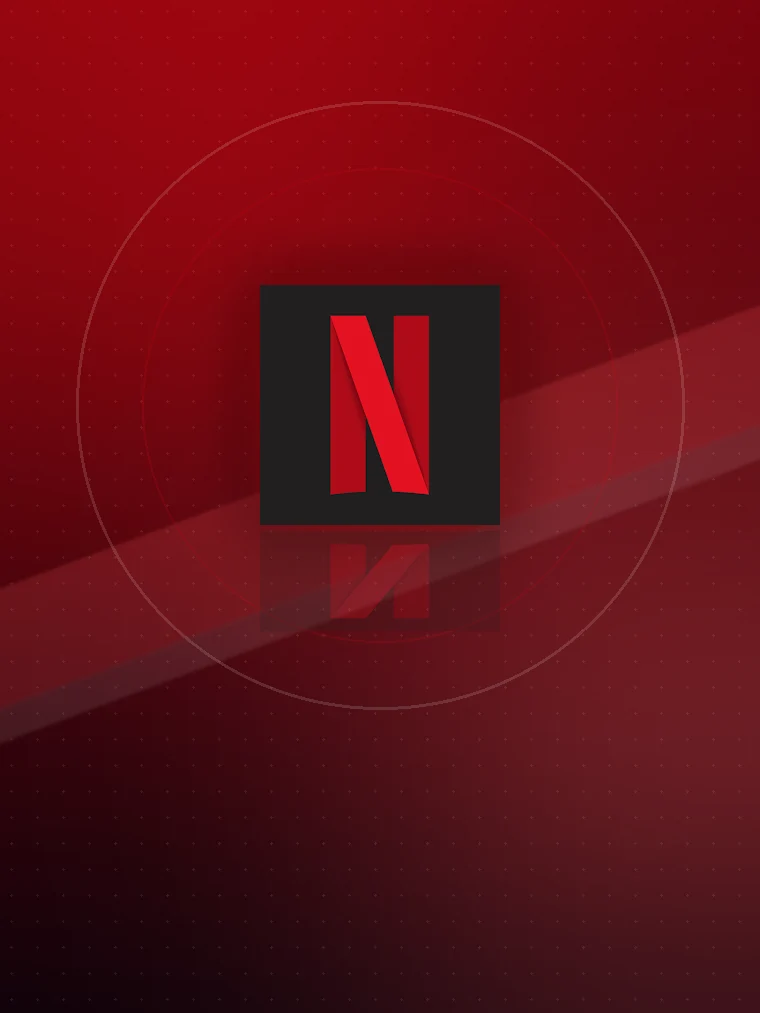
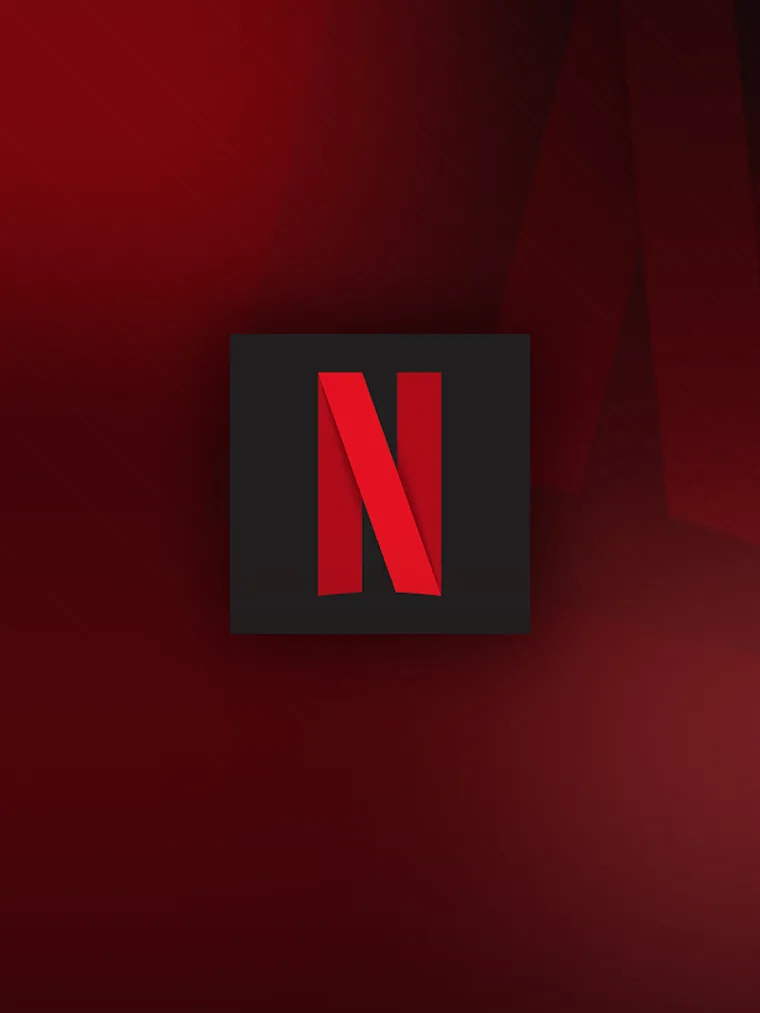
Poster Netflix/Canva/CapCut/Office/VPN dibuat ulang pakai resep poster lama (art7) agar serasi; cache-bust v5

diff --git a/index.html b/index.html
@@ -2913,20 +2913,20 @@
     };
     // Artwork poster: gambar promosi resmi dari halaman toko aplikasi masing-masing.
     const ART = {
-      mlbb: 'public/art9g/mlbb.webp?v=4', ff: 'public/art9g/ff.webp?v=4', pubg: 'public/art9g/pubg.webp?v=4', magic_chess: 'public/art9g/magic_chess.webp?v=4',
-      netflix: 'public/art9/netflix.webp?v=4', canva: 'public/art9/canva.webp?v=4', capcut: 'public/art9/capcut.webp?v=4',
-      spotify: 'public/art9/spotify.webp?v=4', microsoft_office: 'public/art9/microsoft_office.webp?v=4',
-      vpn_utility: 'public/art9/vpn_utility.webp?v=4', pln: 'public/art9/pln.webp?v=4',
-      pulsa: 'public/art9/pulsa.webp?v=4',
-      viu: 'public/art7/viu.webp?v=4', bstation: 'public/art7/bstation.webp?v=4',
-      drama: 'public/art7/drama.webp?v=4', youku: 'public/art7/youku.webp?v=4',
-      prime_video: 'public/art7/prime_video.webp?v=4', vidio: 'public/art7/vidio.webp?v=4',
-      zoom: 'public/art7/zoom.webp?v=4', remini: 'public/art7/remini.webp?v=4',
-      meitu: 'public/art7/meitu.webp?v=4', wink: 'public/art7/wink.webp?v=4',
-      picsart: 'public/art7/picsart.webp?v=4', scribd: 'public/art7/scribd.webp?v=4',
-      chatgpt: 'public/art7/chatgpt.webp?v=4', gemini: 'public/art7/gemini.webp?v=4',
-      pertamina_gas: 'public/art9/pertamina_gas.webp?v=4',
-      mypertamina: 'public/art9/mypertamina.webp?v=4'
+      mlbb: 'public/art9g/mlbb.webp?v=5', ff: 'public/art9g/ff.webp?v=5', pubg: 'public/art9g/pubg.webp?v=5', magic_chess: 'public/art9g/magic_chess.webp?v=5',
+      netflix: 'public/art9/netflix.webp?v=5', canva: 'public/art9/canva.webp?v=5', capcut: 'public/art9/capcut.webp?v=5',
+      spotify: 'public/art9/spotify.webp?v=5', microsoft_office: 'public/art9/microsoft_office.webp?v=5',
+      vpn_utility: 'public/art9/vpn_utility.webp?v=5', pln: 'public/art9/pln.webp?v=5',
+      pulsa: 'public/art9/pulsa.webp?v=5',
+      viu: 'public/art7/viu.webp?v=5', bstation: 'public/art7/bstation.webp?v=5',
+      drama: 'public/art7/drama.webp?v=5', youku: 'public/art7/youku.webp?v=5',
+      prime_video: 'public/art7/prime_video.webp?v=5', vidio: 'public/art7/vidio.webp?v=5',
+      zoom: 'public/art7/zoom.webp?v=5', remini: 'public/art7/remini.webp?v=5',
+      meitu: 'public/art7/meitu.webp?v=5', wink: 'public/art7/wink.webp?v=5',
+      picsart: 'public/art7/picsart.webp?v=5', scribd: 'public/art7/scribd.webp?v=5',
+      chatgpt: 'public/art7/chatgpt.webp?v=5', gemini: 'public/art7/gemini.webp?v=5',
+      pertamina_gas: 'public/art9/pertamina_gas.webp?v=5',
+      mypertamina: 'public/art9/mypertamina.webp?v=5'
     };
     // Ikon resmi (tanpa tulisan) untuk sisi belakang kartu
     const ICON = {
